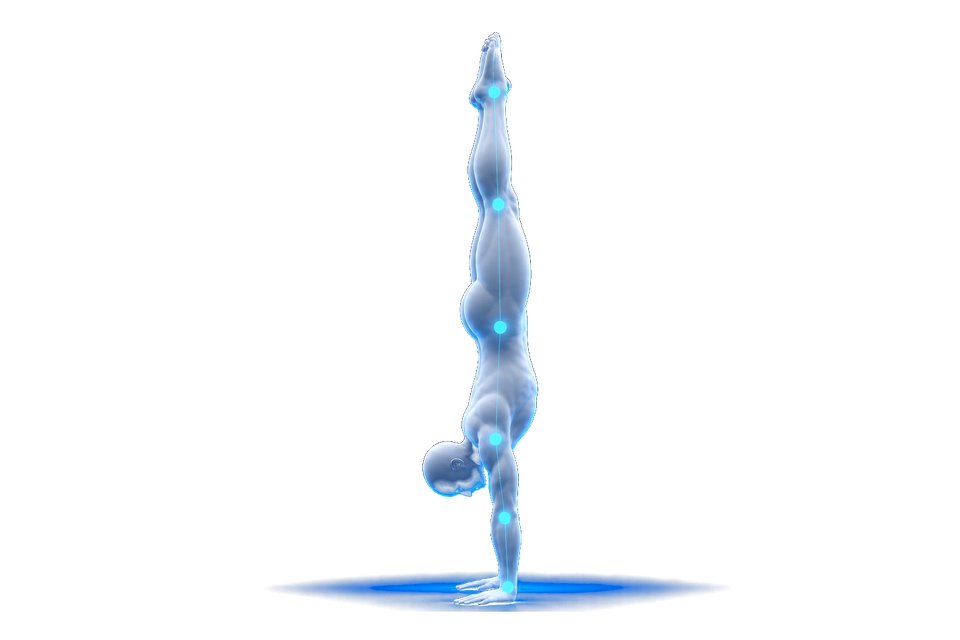
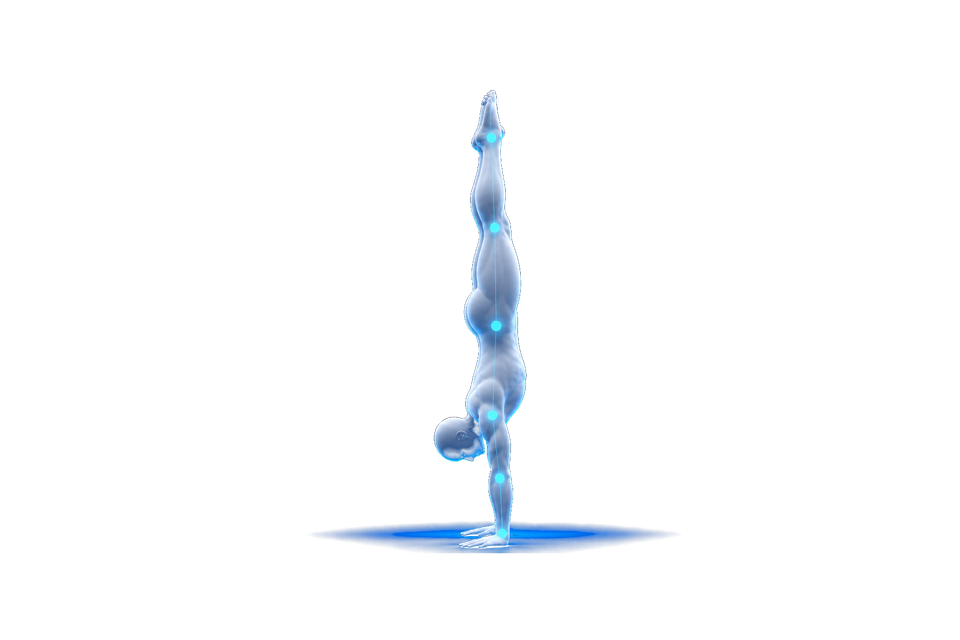
Harmonise la hauteur du handstand avec les figures horizontales
L aire seule n harmonise pas une figure verticale avec des figures
horizontales. Le handstand a la plus petite aire de corps et la plus courte
etendue des trois, et paraissait pourtant le plus imposant : dans une tuile
plus large que haute, c est la hauteur occupee que l oeil compare, et lui
seul touchait le haut et le bas du cadre.

Ajout d un plafond de hauteur, arbitre en comparant trois valeurs cote a cote
sur la grille reelle : a 0,90 le handstand ecrase la ligne, a 0,58 il devient
insignifiant a cote de la planche. Retenu 0,72. Seules les figures verticales
sont concernees, les autres passent sous le seuil sans etre touchees.

Changed region(s): [[0.2812, 0.0312, 0.75, 0.9688]]

diff --git a/CLAUDE.md b/CLAUDE.md
@@ -205,6 +205,16 @@ ensuite bridée pour que le corps tienne dans le cadre, ce qui joue sur les
 silhouettes très étirées comme la full planche : elles finissent un peu sous
 l'aire visée, prix à payer pour ne pas les rogner.
 
+Un plafond de hauteur complète l'aire, et c'est un jugement visuel assumé,
+pas un calcul. L'aire seule n'harmonise pas une figure verticale avec des
+figures horizontales : le handstand a la plus petite aire et la plus courte
+étendue de toutes, et paraissait pourtant le plus imposant, parce que dans
+une tuile plus large que haute c'est la hauteur occupée que l'œil compare et
+que lui seul touchait le haut et le bas du cadre. La valeur a été arbitrée en
+comparant trois hauteurs côte à côte sur la grille réelle. Elle ne concerne
+que les figures verticales, toutes les autres passent dessous sans être
+touchées.
+
 Le décor suit le cadre. Un élément détaché qui n'y tient pas entièrement est
 retiré, pas rogné : un reflet coupé net par le bord se lit comme un défaut de
 découpe alors que son absence passe inaperçue. Le retrait va jusqu'au bord de
